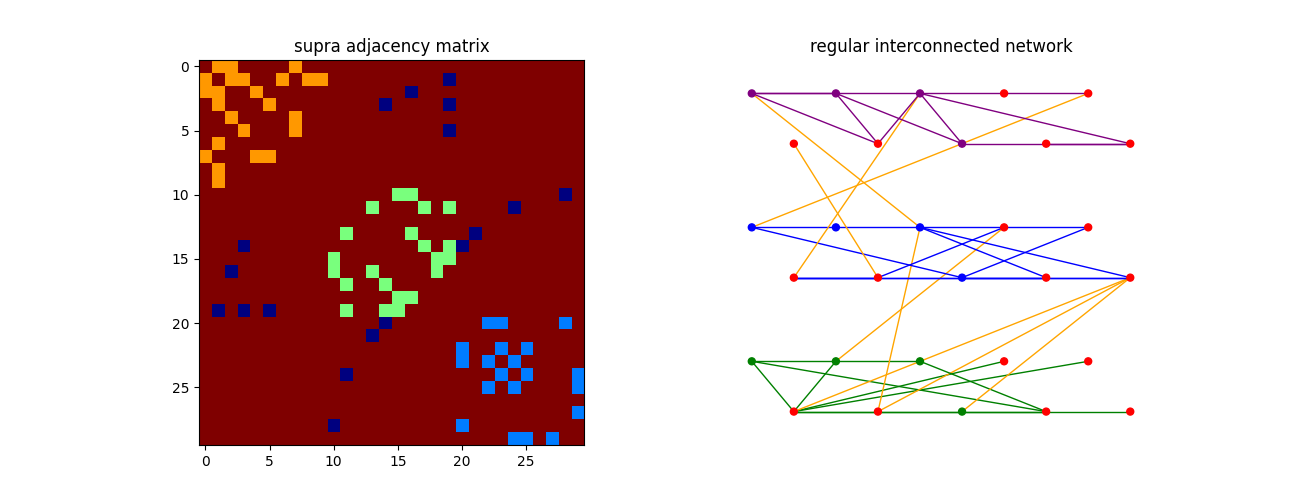
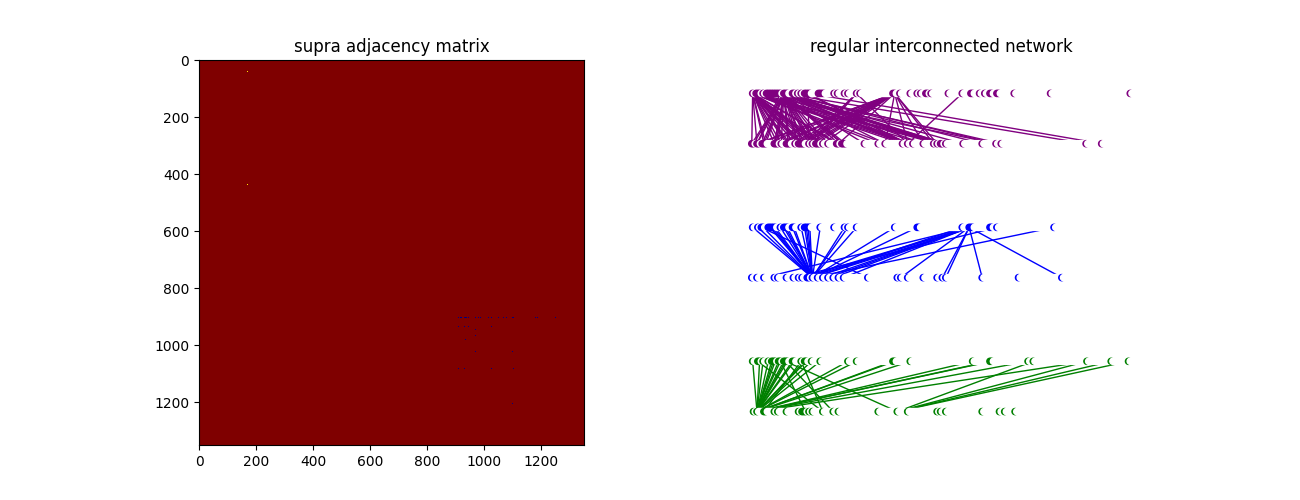
airline added

diff --git a/multilayer/airlines.py b/multilayer/airlines.py
@@ -18,8 +18,6 @@ def readAirports(filename):
             latitude = split[3]
             a = Airport(id, icao, longitude, latitude)
             airports.append(a)
-        # for i in airports:
-            # i.print()
     return airports
 
 def readAirline(filename):
@@ -38,17 +36,17 @@ def readAirline(filename):
             it = int(split[1])
             active.append(int(split[0]))
             for j in range(it):
-                tupla = (split[0], split[j+2])
+                tupla = (int(split[0]), int(split[j+2]))
                 airline.append(tupla)
     # print(active)
     return airline, active
 
 class Airport:
     def __init__(self, id, icao, longitude, latitude):
-        self.id = id
+        self.id = int(id)
         self.icao = icao
-        self.longitude = longitude
-        self.latitude = latitude
+        self.longitude = float(longitude)
+        self.latitude = float(latitude)
 
     def print(self):
         print("Airport:", self.id, self.icao, self.longitude, self.latitude)
@@ -57,26 +55,39 @@ class Airport:
         for a in array: 
             a.print()
 
-from create import createGraph, createAir
+from create import createAir
 from plot import plotGraph
+from cascade import cascade 
+from style import FIGURE
 
 def main():
     filename = 'input/airports.txt'
     airports = readAirports(filename)
-    filenames = ['input/air-france.txt', 'input/british.txt', 'input/lufthansa.txt']
-    layers = []
-    active_airports = []
-    for i in filenames:
-        a, b = readAirline(i)
-        layers.append(a)
-        active_airports.append(b)
+    filenames = ['input/air-france.txt', 'input/british.txt', 'input/lufthansa.txt'] 
+    layers = [] 
+    active_airports = [] 
+    for i in filenames: 
+        a, b = readAirline(i) 
+        layers.append(a) 
+        active_airports.append(b) 
+    
+    total_layers = len(layers) 
+    total_nodes = len(airports) 
+    node_size = [] 
+    for i in range(total_layers): 
+        for j in range(total_nodes): 
+            if (j in active_airports[i]): 
+                node_size.append(FIGURE["node_size"]) 
+            else: 
+                node_size.append(0) 
 
-    # print(active_airports[0][0])
-    # print(type(active_airports[0][0]))
-    matrix = [[]]
-    # mg, node_color = createGraph(len(layers), 450, 3)
-    mg, node_color = createAir(len(layers), 450, active_airports, matrix)
-    plotGraph(mg, node_color)
+    custom_pos = {} 
+    for i in range(total_nodes): 
+        custom_pos[i] = [airports[i].latitude, airports[i].longitude/30] 
+
+    mg, node_color = createAir(total_layers, total_nodes, active_airports, layers) 
+    plotGraph(mg, node_color, node_size=node_size, node_position=custom_pos) 
+    mg = cascade(mg, node_color, phi=0.36)
     return 
 
 if __name__ == "__main__":

diff --git a/multilayer/plot.py b/multilayer/plot.py
@@ -13,7 +13,7 @@ import multinetx as mx
 
 from style import COLORS, FIGURE
 
-def plotGraph(mg, node_color):
+def plotGraph(mg, node_color, node_size=0, node_position=0):
     fig = plt.figure(figsize=FIGURE["size"])
     # first image: matrix of connections
     ax1 = fig.add_subplot(121)
@@ -24,23 +24,30 @@ def plotGraph(mg, node_color):
     ax2.axis('off')
     ax2.set_title(FIGURE["title2"])
 
-    custom_pos = {}
-    x = y = 0.01
-    for i in range(mg.get_number_of_nodes_in_layers()[0]):
-        if i % 2 == 0:
-            custom_pos[i] = [x + i/100, 0.4] 
-            # custom_pos[i] = [x + i/100, y + i/10]
-        else:
-            custom_pos[i] = [x + i/100, -0.4] 
-            # custom_pos[i] = [x + i/100, y - i/10]
+    if(not node_size): 
+        node_size = FIGURE["node_size"] 
+        return 
 
-    pos = mx.get_position(mg,custom_pos,
+    if(not node_position): 
+        custom_pos = {} 
+        x = y = 0.01 
+        print(mg.get_number_of_nodes_in_layers()[0])
+        for i in range(mg.get_number_of_nodes_in_layers()[0]): 
+            if i % 2 == 0: 
+                custom_pos[i] = [x + i/100, 0.4] 
+                # custom_pos[i] = [x + i/100, y + i/10]
+            else: 
+                custom_pos[i] = [x + i/100, -0.4] 
+                # custom_pos[i] = [x + i/100, y - i/10]
+        node_position = custom_pos
+
+    pos = mx.get_position(mg,node_position,
                         layer_vertical_shift=1.4,
                         layer_horizontal_shift=0.0,
                         proj_angle=7)
 
     custom_edge_color = [COLORS["nodes"][(mg[a][b]['weight'] - 1) % len(COLORS["nodes"])] for a,b in mg.edges()]
-    mx.draw_networkx(mg,pos=pos, ax=ax2, node_size=FIGURE["node_size"], with_labels=FIGURE["with_labels"], node_color=node_color, 
+    mx.draw_networkx(mg,pos=pos, ax=ax2, node_size=node_size, with_labels=FIGURE["with_labels"], node_color=node_color, 
                     edge_color=custom_edge_color,
                     edge_cmap=plt.cm.jet_r)
 

diff --git a/multilayer/create.py b/multilayer/create.py
@@ -58,7 +58,7 @@ def createAir(l, n, active, matrix):
     for i in range(l):
         gx = nx.Graph(directed=False)
         gx.add_nodes_from(range(0, n))
-        # gx.add_edges_from(tuple(random.sample(range(0, n), 2)) for _ in range(n+l))
+        gx.add_edges_from(matrix[i])
         # all nodes start in disabled status
         nx.set_node_attributes(gx, "disabled", "status")
         nx.set_node_attributes(gx, "white", "color")
@@ -68,11 +68,8 @@ def createAir(l, n, active, matrix):
             nx.set_node_attributes(gx, {j: "green"}, name="color")
         # adding to array of layers 
         g.append(gx)
-        # print(nx.get_node_attributes(gx, "color"))
+    # adj block defines interlayer edges
     adj_block = mx.lil_matrix(np.zeros((n*l,n*l)))
-    # for i in range(l-1):
-    #     for _ in range(m):
-    #         adj_block[n*i + random.randint(0, n-1), n*(i+1) + random.randint(0, n-1)] = 1
     # mirrroring
     adj_block += adj_block.T
     mg = mx.MultilayerGraph(list_of_layers=g, inter_adjacency_matrix=adj_block)

diff --git a/multilayer/style.py b/multilayer/style.py
@@ -14,6 +14,6 @@ FIGURE = {
     "size": (13, 5),
     "title1": "supra adjacency matrix",
     "title2": "regular interconnected network",
-    "node_size": 10,
+    "node_size": 20,
     "with_labels": False
 }
